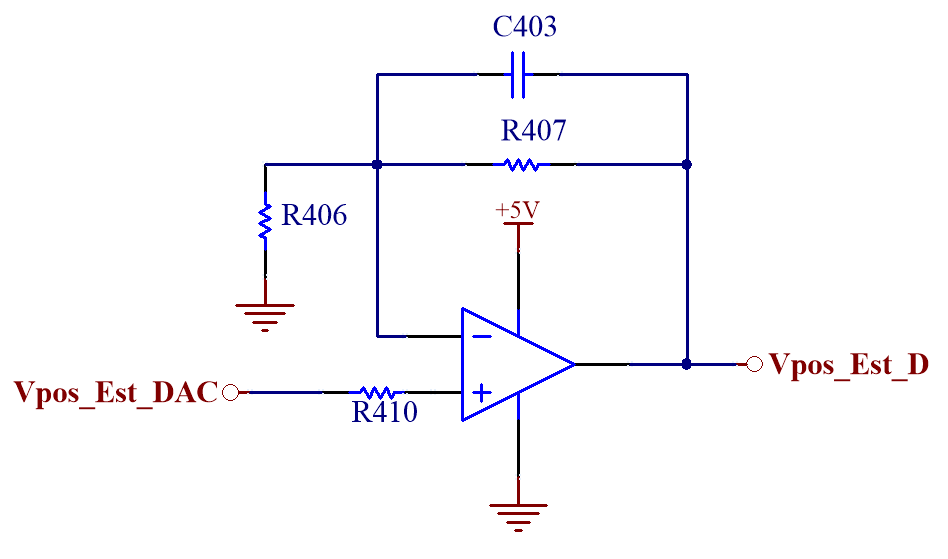
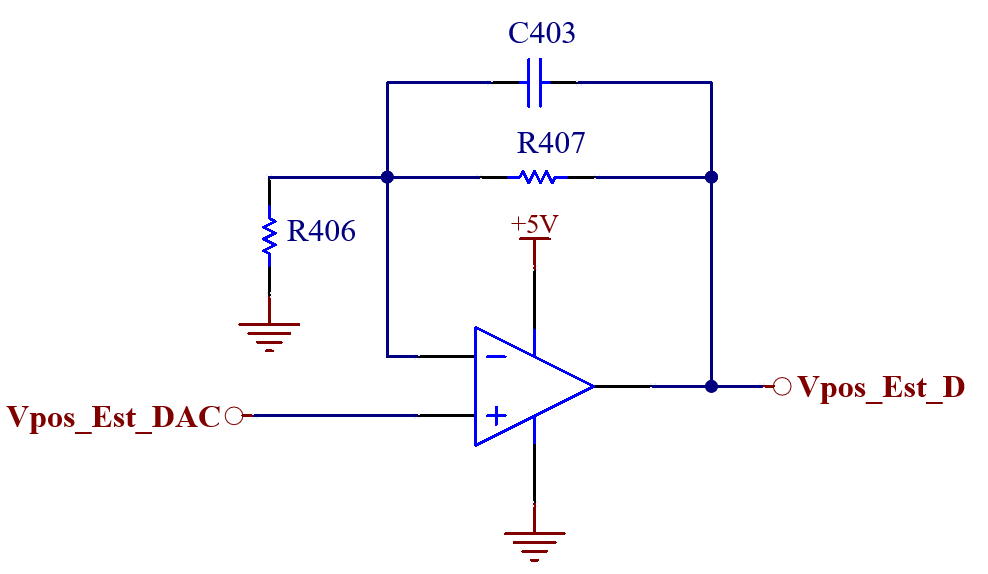
Cambios

Changed region(s): [[0.0, 0.0304, 0.9789, 0.9732]]

diff --git a/Informe final/Proyecto Levitador LaTeX/Informe/7-ImplementacionDigital/ImplementacionDigital.tex b/Informe final/Proyecto Levitador LaTeX/Informe/7-ImplementacionDigital/ImplementacionDigital.tex
@@ -437,7 +437,7 @@ En esta sección se realiza el diseño circuital de las etapas de acondicionamie
 
 \subsection{Circuitos de acondicionamiento de señales para el ADC}
 
- Para convertir los valores analógicos de las señales de referencia de posición y salida del sensor de efecto Hall, se utiliza el ADC del microcontrolador con una tensión de referencia de $3.3\:V$ y una frecuencia de muestreo de $25\:kHz$. Se agrega circuitería de filtrado, ganancia y protección en las entradas del ADC para hacerlas aptas para ingresar al microcontrolador.
+ Para convertir los valores analógicos de las señales de referencia de posición y salida del sensor de efecto Hall a valores discretos, se utiliza el ADC del microcontrolador con una tensión de referencia de $3.3\:V$ y una frecuencia de muestreo de $25\:kHz$. Se agrega circuitería de filtrado, ganancia y protección en las entradas del ADC para hacerlas aptas para ingresar al microcontrolador.
  
 \subsubsection{Referencia de posición} \label{sec_referencia_pos}
 
@@ -459,17 +459,16 @@ Luego, dentro del microcontrolador, se asigna cada valor leído por el ADC a una
 
 De esta manera se obtiene la señal $Y_{ref}$ que varía entre valores de $2\:mm$ y $5\:mm$, según la tensión de entrada al ADC.
 
-Para obtener la tensión $Vy_{ref_{ADC}}$ se utiliza el circuito mostrado en la figura \ref{fig:circuito-ref-posicion}. Este tiene, además, un filtro con frecuencia de corte en $1\:kHz$ para evitar que ingrese ruido en la medición. Por otro lado, se coloca un diodo zener polarizado en inversa de $3.6\:V$ a la salida del amplificador operacional para evitar que la tensión que ingresa al ADC sea superior a la máxima admisible. Este diodo es colocado a la salida de todos los circuitos que ingresan al ADC.
+Para obtener la tensión $Vy_{ref_{ADC}}$ se utiliza el circuito mostrado en la figura \ref{fig:circuito-ref-posicion}. Este tiene, además, un filtro con frecuencia de corte en $1\:kHz$ \colorbox{red}{Podríamos ponerle 100Hz no?} para evitar que ingrese ruido en la medición. Por otro lado, se coloca un diodo zener polarizado en inversa de $3.6\:V$ a la salida del amplificador operacional para evitar que la tensión que ingresa al ADC sea superior a la máxima admisible. Este diodo es colocado a la salida de todos los circuitos que ingresan al ADC.
 
 
 \begin{figure}[H]
 	\centering
-	\includegraphics[scale=0.8]{Circuito-ref-posicion_dig.png}
+	\includegraphics[scale=0.5]{Circuito-ref-posicion_dig.png}
 	\caption{Circuito acondicionador para referencia de posición.}
 	\label{fig:circuito-ref-posicion}
 \end{figure}
 
-\colorbox{red}{Cambiar nombre a imagen Vyref y VyrefADC} - listo
 %
 %Como se ve en la expresión \ref{eq_vyref_vs_yg}, la señal tiene un punto de operación de $3.4\:V$. Por lo tanto si se implementa un circuito de acondicionamiento que le reste este valor, se obtiene una señal apta para el ADC.
 %  
@@ -516,7 +515,7 @@ Por lo tanto, para obtener una frecuencia de corte para el filtro de $1\:kHz$ se
 
 \begin{figure}[H]
 	\centering
-	\includegraphics[scale=0.5]{Componente-corriente-alterna_dig.png}
+	\includegraphics[scale=0.45]{Componente-corriente-alterna_dig.png}
 	\caption{ Circuito acondicionador para componente alterna de corriente del electroimán.
 	}
 	\label{fig:componente-corriente-alterna}
@@ -550,15 +549,15 @@ Para lograr la frecuencia de corte inferior de $100\:Hz$ es necesario definir co
 
 Se elige $R_{405}=1\:k\Omega$ por lo que resulta $C_{404}=1.6\:\mu F$. De esta forma se obtiene $R_{409}=1\:k\Omega$ y $C_{406}=1.6\:\mu F$.
 
-Debido a la acción del cero en el origen, la ganancia del circuito ira en aumento hasta alcanzar la frecuencia del primero polo ubicado en $100\:Hz$. Una vez alcanzado, la ganancia permanecerá constante. Ese valor es la ganancia resultante en la banda de paso. Como se desea que sea de 50, se plantea la siguiente ecuación:
+Debido a la acción del cero en el origen, la ganancia del circuito ira en aumento hasta alcanzar la frecuencia del primer polo ubicado en $100\:Hz$. Una vez alcanzado, la ganancia permanecerá constante. Ese valor es la ganancia resultante en la banda de paso. Como se desea que sea de 50, se plantea la siguiente ecuación:
 
 \begin{equation*} 
 	\frac{1}{2\pi C_{404}R_{404}}=\frac{100\:Hz}{50}
 \end{equation*}
 
-Por lo tanto, resulta $R_{404}=50\:K\Omega$. De esta forma se obtiene $R_{408}=50\:K\Omega$
+Por lo tanto, resulta $R_{404}=50\:k\Omega$. De esta forma se obtiene $R_{408}=50\:k\Omega$.
 
-Finalmente, para lograr una frecuencia de corte superior de $12\:KHz$ se plantea:
+Finalmente, para lograr una frecuencia de corte superior de $12\:kHz$ se plantea:
 
 \begin{equation*} 
 	12\:kHz=\frac{1}{2\pi C_{402}R_{404}}
@@ -615,12 +614,12 @@ Por lo tanto, se obtiene $C_{402}=270\:pF$. De esta forma resulta $C_{407}=270\:
 
 \subsubsection{Componente continua de corriente del electroimán}
 
- Para obtener la componente de continua se utiliza un filtro pasa-bajos con frecuencia de corte en $100\:Hz$. Se eligió esta frecuencia para que se ubique por lo menos una década por debajo de la frecuencia fundamental de la onda triangular. La implementación circuital puede observarse en la figura \ref{fig:componente-corriente-continua}
+ Para obtener la componente de continua se utiliza un filtro pasa-bajos con frecuencia de corte en $100\:Hz$. Se eligió esta frecuencia para que se ubique por lo menos una década por debajo de la frecuencia fundamental de la onda triangular. La implementación circuital puede observarse en la figura \ref{fig:componente-corriente-continua}.
 
 
 \begin{figure}[H]
 	\centering
-	\includegraphics[scale=0.5]{Componente-corriente-continua_dig.png}
+	\includegraphics[scale=0.45]{Componente-corriente-continua_dig.png}
 	\caption{Circuito acondicionador para componente continua de corriente del electroimán.
 	}
 	\label{fig:componente-corriente-continua}
@@ -629,29 +628,30 @@ Por lo tanto, se obtiene $C_{402}=270\:pF$. De esta forma resulta $C_{407}=270\:
 La señal de salida puede ser expresada en función de su entrada como:
 
 \begin{equation*}
-	Vi\_Feed\_mean\_ADC=\frac{1}{1+sC_{401}R_{401}}*Vi\_Feed
+	Vi\_feed\_mean\_ADC=\frac{1}{1+sC_{401}R_{401}}*Vi\_feed
 \end{equation*}
+
 Por lo tanto, como se desea una frecuencia de corte de $100\:Hz$ se plantea la siguiente ecuación:
 \begin{equation*} 
 	\frac{1}{2\pi C_{401}R_{401}}=100\:Hz
 \end{equation*}
 
-Al elegir una resistencia $R_{401}=10\:k\Omega$ resulta en $C_{401}=160\:nF$
+Al elegir una resistencia $R_{401}=10\:k\Omega$ resulta en $C_{401}=160\:nF$.
 
 
 \subsection{Circuitos de acondicionamiento de señales para el DAC}
 
- Para convertir los valores digitales de la estimación de posición y de la compensación al dominio analógico, se utiliza el DAC del microcontrolador. El DAC utilizado entrega una tensión de salida que puede variar entre $0\:V$ y $3.3\:V$, y se actualiza con una frecuencia mínima de $3.5\:kHz$ como se mencionó en la sección \ref{sec_adquisicion_y_procesamiento}. Se agrega circuitería de filtrado, ganancia y protección en las salidas del DAC para hacerlas aptas para ingresar a las etapas analógicas.
+ Para convertir los valores digitales de la estimación de posición y de la compensación al dominio analógico, se utiliza el DAC del microcontrolador. Este entrega una tensión de salida que puede variar entre $0\:V$ y $3.3\:V$, y se actualiza con una frecuencia mínima de $3.5\:kHz$ como se mencionó en la sección \ref{sec_adquisicion_y_procesamiento}. Se agrega circuitería de filtrado, ganancia y protección en las salidas del DAC para hacerlas aptas para ingresar a las etapas analógicas.
  
 \subsubsection{Salida del compensador}
 
-La salida de la etapa de compensador digital es convertida en una señal analógica por el DAC y luego de esta etapa de adaptación ingresa a la etapa de controlador de corriente. Como el controlador de corriente funciona con tensiones de referencia de hasta $5\:V$ en su entrada y el compensador fue diseñado teniendo en cuenta este nivel de tensión, se agrega una ganancia por firmware de $0.66$, mapeando así los $5\:V$ a $3.3\:V$, que es la máxima tensión entregada por el DAC. Luego, para compensar esta ganancia y no afectar a la transferencia de la planta, se la afecta por un factor de $\frac{5V}{3.3V}$ por medio del circuito de acondicionamiento. Además, la salida del DAC es filtrada con un filtro pasa bajos con frecuencia de corte en $1.75\:kHz$ para eliminar los saltos de tensión que provoca el ROC.
+La salida del compensador digital es convertida en una señal analógica por medio del DAC. Luego de pasar por un circuito de adaptación, esta señal ingresa a la etapa del controlador de corriente. Debido a que esta última funciona con tensiones de referencia de hasta $5\:V$ en su entrada y el compensador fue diseñado teniendo en cuenta este nivel de tensión, se agrega una ganancia por firmware de $0.66$, haciendo corresponder así los $5\:V$ a $3.3\:V$, que es la máxima tensión entregada por el DAC. Luego, para compensar esta ganancia y no afectar a la transferencia de la planta, se la afecta por un factor de $\frac{5V}{3.3V}$ por medio del circuito de acondicionamiento. Además, a la salida del DAC se coloca un filtro pasa bajos con frecuencia de corte en $1.75\:kHz$ para eliminar los saltos de tensión provocados por el ROC.
 
 De esta forma, se logra convertir correctamente la señal digital en analógica. En la figura \ref{fig:DAC-compensador} se muestra la implementación del circuito.
 
 \begin{figure}[H]
 	\centering
-	\includegraphics[scale=0.5]{DAC-compensador_dig.png}
+	\includegraphics[scale=0.45]{DAC-compensador_dig.png}
 	\caption{Circuito acondicionador para la salida del DAC correspondiente al compensador.}
 	\label{fig:DAC-compensador}
 \end{figure}
@@ -678,8 +678,6 @@ Para que la frecuencia de corte del filtro se encuentre en $1.75\:kHz$, se plant
 
 De esta forma, se obtiene $C_{400}=18\:nF$. 
 
-\colorbox{red}{Aclaramos para que se usa R403?} capaz la sacamos de la imgen jeje	- listo
-
 
 \subsubsection{Salida del estimador}
 
@@ -692,7 +690,6 @@ La salida del estimador digital se obtiene a través del DAC para poder observar
 	\label{fig:DAC-estimador}
 \end{figure}
 
-\colorbox{red}{Aclaramos para que se usa R410?}
 
 \section{Diseño del controlador digital}
 
